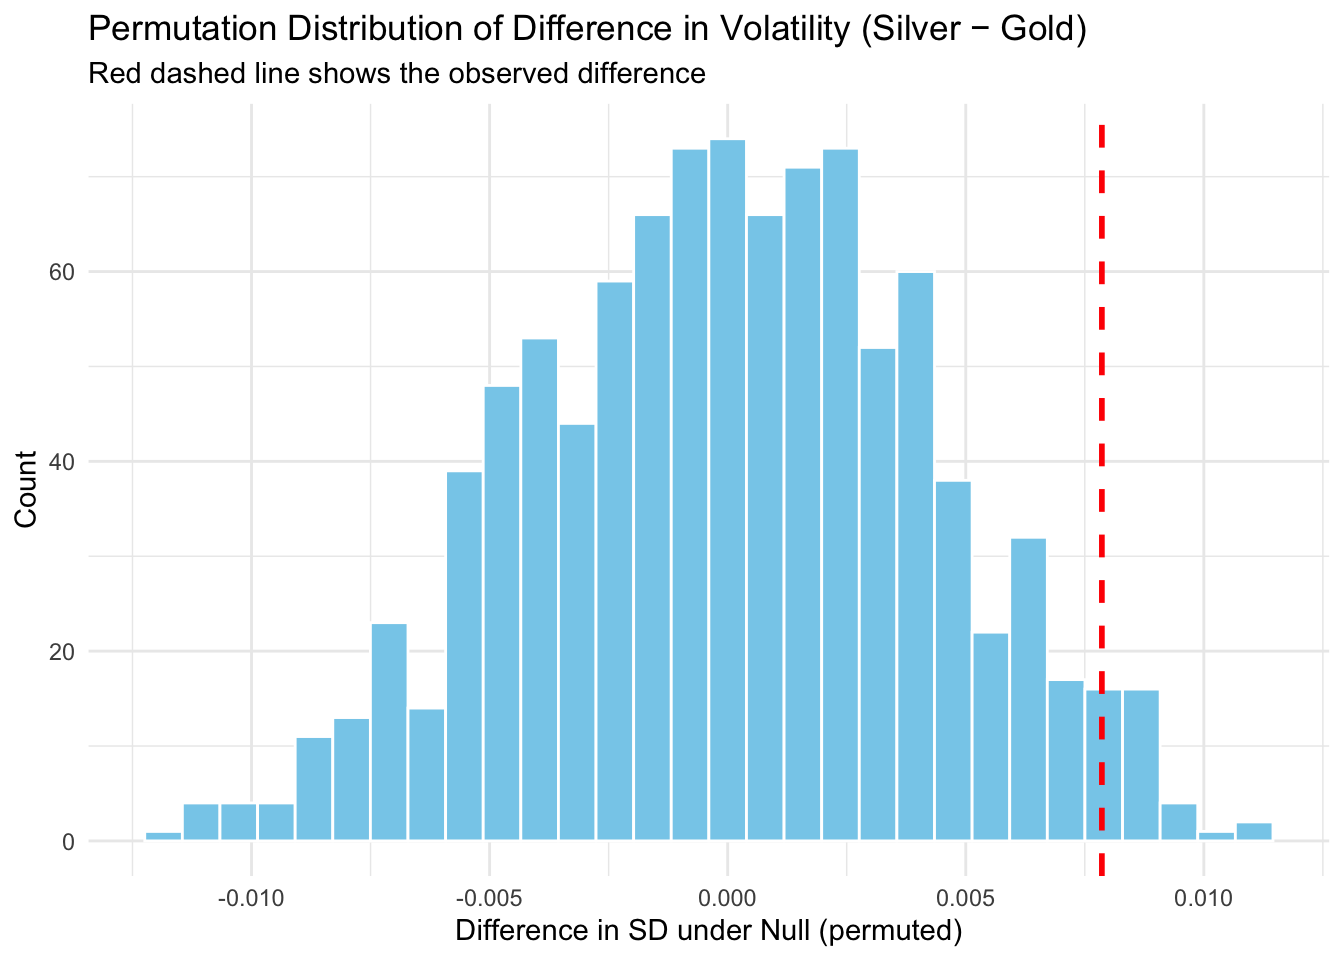
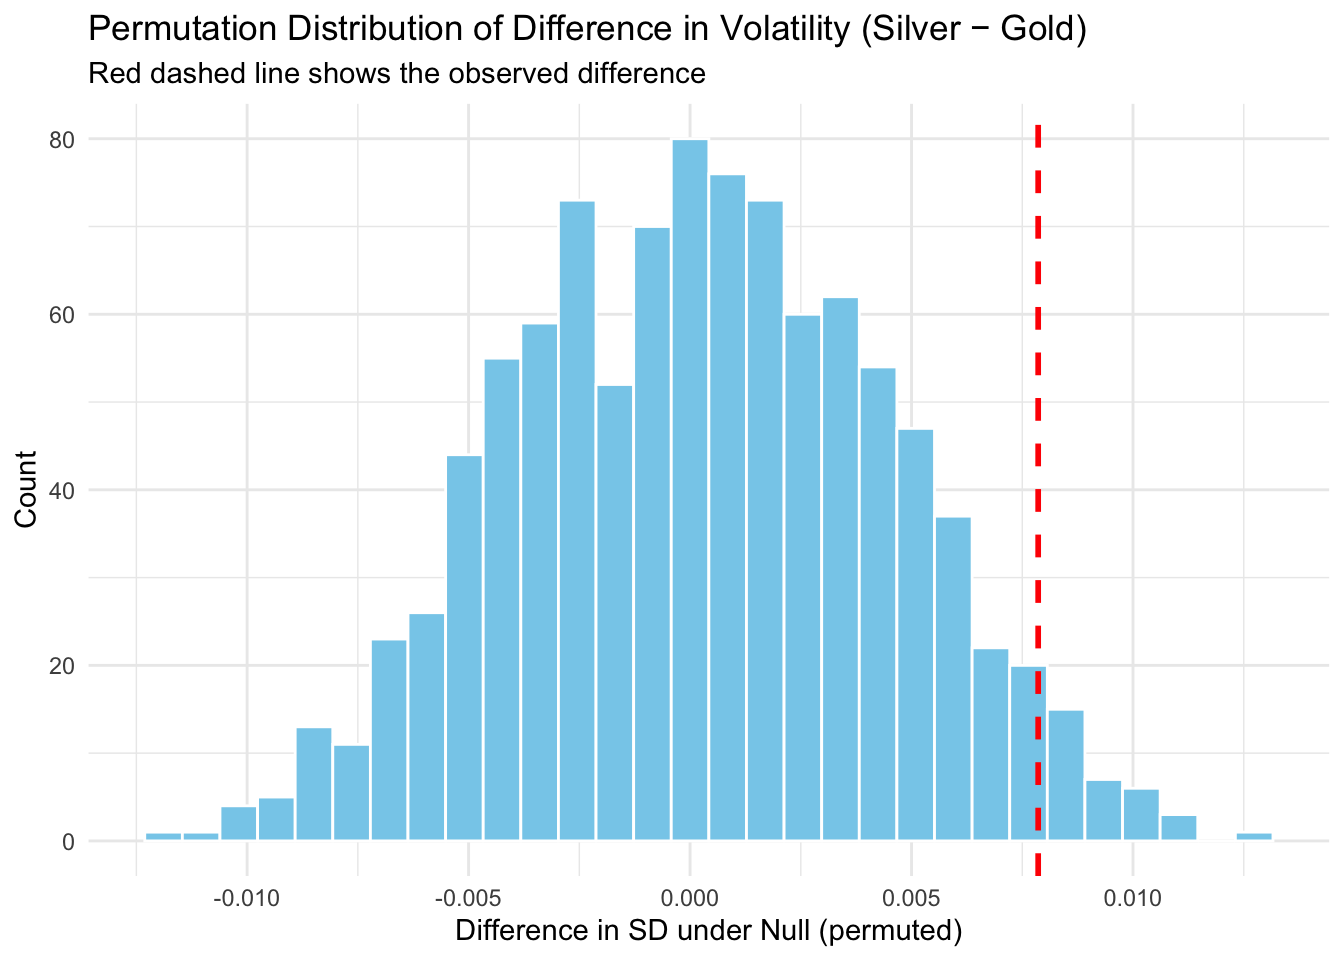
update

diff --git a/docs/PermutationTest.html b/docs/PermutationTest.html
@@ -188,6 +188,7 @@ pre > code.sourceCode > span > a:first-child::before { text-decoration: underlin
   <li><a href="#simulate-null-distribution" id="toc-simulate-null-distribution" class="nav-link" data-scroll-target="#simulate-null-distribution">Simulate Null Distribution</a></li>
   <li><a href="#visualize-permutation-distribution" id="toc-visualize-permutation-distribution" class="nav-link" data-scroll-target="#visualize-permutation-distribution">Visualize Permutation Distribution</a></li>
   <li><a href="#calculate-one-tailed-p-value" id="toc-calculate-one-tailed-p-value" class="nav-link" data-scroll-target="#calculate-one-tailed-p-value">Calculate One-Tailed p-value</a></li>
+  <li><a href="#simulation-type-i-error-rate-of-the-permutation-test" id="toc-simulation-type-i-error-rate-of-the-permutation-test" class="nav-link" data-scroll-target="#simulation-type-i-error-rate-of-the-permutation-test">Simulation: Type I Error Rate of the Permutation Test</a></li>
   <li><a href="#final-conclusion" id="toc-final-conclusion" class="nav-link" data-scroll-target="#final-conclusion">Final Conclusion</a></li>
   </ul>
 </nav>
@@ -225,7 +226,7 @@ pre > code.sourceCode > span > a:first-child::before { text-decoration: underlin
 <p>In this project, I investigate whether <strong>silver is more volatile than gold</strong> over recent months.<br>
 Gold and silver are both precious metals often used as investment hedges against inflation and market risk, but their price behaviors differ: gold functions more as a monetary store of value, while silver also has heavy industrial demand.</p>
 <p>Determining which metal trades at a <strong>“volatility premium”</strong> — that is, which has a higher expected volatility — is important to assess the <strong>stable liquidity</strong> of gold vs.&nbsp;silver. This is especially useful when evaluating which metal serves as a more effective <strong>portfolio hedge</strong> under uncertainty.</p>
-<p>Using daily price data from <strong>Yahoo Finance</strong> (tickers <code>GC=F</code> for gold and <code>SI=F</code> for silver), I compute daily log returns and perform a <strong>one-tailed permutation test</strong> under the null hypothesis that the two metals have equal volatility.</p>
+<p>Using daily price data from <strong>Yahoo Finance</strong> (tickers <code>GC=F</code> for gold and <code>SI=F</code> for silver), I compute daily log returns and perform a one-tailed permutation test under the null hypothesis that the two metals have equal volatility.</p>
 <p>Because financial returns are often non-normal, a permutation test is a robust, simulation-based way to test this difference without assuming normality.</p>
 <hr>
 </section>
@@ -233,10 +234,8 @@ Gold and silver are both precious metals often used as investment hedges against
 <h2 class="anchored" data-anchor-id="experiment-setup">Experiment Setup</h2>
 <p>We compare the <strong>standard deviations of daily log returns</strong> for gold and silver.</p>
 <ul>
-<li><p><strong>Null Hypothesis (H₀):</strong> The standard deviation of daily returns is the same for gold and silver.<br>
-[ <em>{} = </em>{} ]</p></li>
-<li><p><strong>Alternative Hypothesis (H₁):</strong> Silver is <strong>more volatile</strong> than gold.<br>
-[ <em>{} &gt; </em>{} ]</p></li>
+<li><p><strong>Null Hypothesis (H₀):</strong> The standard deviation of daily returns is the same for gold and silver.</p></li>
+<li><p><strong>Alternative Hypothesis (H₁):</strong> Silver is <strong>more volatile</strong> than gold.</p></li>
 </ul>
 <p>Instead of relying on a theoretical distribution (like a t-test or F-test), we use a <strong>permutation test</strong>, which simulates what differences we’d expect <strong>purely due to chance</strong> under the null hypothesis.</p>
 <hr>
@@ -358,11 +357,11 @@ We’ll compare this observed difference to the null distribution next.</p>
 </section>
 <section id="simulate-null-distribution" class="level2">
 <h2 class="anchored" data-anchor-id="simulate-null-distribution">Simulate Null Distribution</h2>
-<p>We repeat the permutation process <strong>1000 times</strong> using <code>map_dbl()</code> to create a distribution of SD differences expected under the null hypothesis (i.e., if metals were equally volatile).</p>
+<p>We repeat the permutation process <strong>1000 times</strong> using <code>map_dbl()</code> to create a distribution of SD differences expected under the null hypothesis (i.e., if metals were equally volatile). The map_() function allows us to repeat this process smoothly and efficiently.</p>
 <div class="cell">
 <details class="code-fold">
 <summary>Code</summary>
-<div class="sourceCode cell-code" id="cb10"><pre class="sourceCode r code-with-copy"><code class="sourceCode r"><span id="cb10-1"><a href="#cb10-1" aria-hidden="true" tabindex="-1"></a><span class="fu">set.seed</span>(<span class="dv">123</span>)  <span class="co"># for reproducibility</span></span>
+<div class="sourceCode cell-code" id="cb10"><pre class="sourceCode r code-with-copy"><code class="sourceCode r"><span id="cb10-1"><a href="#cb10-1" aria-hidden="true" tabindex="-1"></a><span class="fu">set.seed</span>(<span class="dv">47</span>)</span>
 <span id="cb10-2"><a href="#cb10-2" aria-hidden="true" tabindex="-1"></a></span>
 <span id="cb10-3"><a href="#cb10-3" aria-hidden="true" tabindex="-1"></a><span class="co"># Perform 1000 permutations under the null hypothesis</span></span>
 <span id="cb10-4"><a href="#cb10-4" aria-hidden="true" tabindex="-1"></a>sim_diffs <span class="ot">&lt;-</span> <span class="fu">map_dbl</span>(<span class="dv">1</span><span class="sc">:</span><span class="dv">1000</span>, <span class="sc">~</span><span class="fu">simulate_diff_sd</span>(returns_long))</span>
@@ -429,13 +428,64 @@ This gives a <strong>right-tailed p-value</strong> for the hypothesis that silve
 <span id="cb15-2"><a href="#cb15-2" aria-hidden="true" tabindex="-1"></a>    <span class="fu">format</span>(p_val, <span class="at">scientific =</span> <span class="cn">TRUE</span>, <span class="at">digits =</span> <span class="dv">10</span>), <span class="st">"</span><span class="sc">\n</span><span class="st">"</span>)</span></code><button title="Copy to Clipboard" class="code-copy-button"><i class="bi"></i></button></pre></div>
 </details>
 <div class="cell-output cell-output-stdout">
-<pre><code>Approximate one-tailed permutation p-value: 3.4e-02 </code></pre>
+<pre><code>Approximate one-tailed permutation p-value: 3.5e-02 </code></pre>
 </div>
 </div>
 <p><strong>Interpretation:</strong><br>
 A very small p-value implies that the observed volatility difference is unlikely under the null —<br>
 we have statistical evidence to <strong>reject the null hypothesis</strong> and conclude that <strong>silver is more volatile</strong>.</p>
-<hr>
+</section>
+<section id="simulation-type-i-error-rate-of-the-permutation-test" class="level2">
+<h2 class="anchored" data-anchor-id="simulation-type-i-error-rate-of-the-permutation-test">Simulation: Type I Error Rate of the Permutation Test</h2>
+<p>We now simulate a world where <strong>gold and silver have the same true volatility</strong>, and check how often our permutation test <strong>falsely rejects the null</strong>.</p>
+<p>This helps us assess how well the test controls the Type I error rate.</p>
+<div class="cell">
+<details class="code-fold">
+<summary>Code</summary>
+<div class="sourceCode cell-code" id="cb17"><pre class="sourceCode r code-with-copy"><code class="sourceCode r"><span id="cb17-1"><a href="#cb17-1" aria-hidden="true" tabindex="-1"></a>simulate_type1_error <span class="ot">&lt;-</span> <span class="cf">function</span>(<span class="at">n =</span> <span class="dv">30</span>, <span class="at">reps =</span> <span class="dv">20</span>, <span class="at">perms =</span> <span class="dv">100</span>, <span class="at">seed =</span> <span class="dv">47</span>) {</span>
+<span id="cb17-2"><a href="#cb17-2" aria-hidden="true" tabindex="-1"></a>  <span class="fu">set.seed</span>(seed)  <span class="co"># ensures reproducibility</span></span>
+<span id="cb17-3"><a href="#cb17-3" aria-hidden="true" tabindex="-1"></a></span>
+<span id="cb17-4"><a href="#cb17-4" aria-hidden="true" tabindex="-1"></a>  p_vals <span class="ot">&lt;-</span> <span class="fu">numeric</span>(reps)</span>
+<span id="cb17-5"><a href="#cb17-5" aria-hidden="true" tabindex="-1"></a></span>
+<span id="cb17-6"><a href="#cb17-6" aria-hidden="true" tabindex="-1"></a>  <span class="cf">for</span> (i <span class="cf">in</span> <span class="dv">1</span><span class="sc">:</span>reps) {</span>
+<span id="cb17-7"><a href="#cb17-7" aria-hidden="true" tabindex="-1"></a>    group1 <span class="ot">&lt;-</span> <span class="fu">rnorm</span>(n)</span>
+<span id="cb17-8"><a href="#cb17-8" aria-hidden="true" tabindex="-1"></a>    group2 <span class="ot">&lt;-</span> <span class="fu">rnorm</span>(n)</span>
+<span id="cb17-9"><a href="#cb17-9" aria-hidden="true" tabindex="-1"></a></span>
+<span id="cb17-10"><a href="#cb17-10" aria-hidden="true" tabindex="-1"></a>    df <span class="ot">&lt;-</span> <span class="fu">tibble</span>(</span>
+<span id="cb17-11"><a href="#cb17-11" aria-hidden="true" tabindex="-1"></a>      <span class="at">Return =</span> <span class="fu">c</span>(group1, group2),</span>
+<span id="cb17-12"><a href="#cb17-12" aria-hidden="true" tabindex="-1"></a>      <span class="at">Metal =</span> <span class="fu">rep</span>(<span class="fu">c</span>(<span class="st">"Gold"</span>, <span class="st">"Silver"</span>), <span class="at">each =</span> n)</span>
+<span id="cb17-13"><a href="#cb17-13" aria-hidden="true" tabindex="-1"></a>    )</span>
+<span id="cb17-14"><a href="#cb17-14" aria-hidden="true" tabindex="-1"></a></span>
+<span id="cb17-15"><a href="#cb17-15" aria-hidden="true" tabindex="-1"></a>    obs_diff <span class="ot">&lt;-</span> df <span class="sc">|&gt;</span></span>
+<span id="cb17-16"><a href="#cb17-16" aria-hidden="true" tabindex="-1"></a>      <span class="fu">group_by</span>(Metal) <span class="sc">|&gt;</span></span>
+<span id="cb17-17"><a href="#cb17-17" aria-hidden="true" tabindex="-1"></a>      <span class="fu">summarise</span>(<span class="at">sd =</span> <span class="fu">sd</span>(Return), <span class="at">.groups =</span> <span class="st">"drop"</span>) <span class="sc">|&gt;</span></span>
+<span id="cb17-18"><a href="#cb17-18" aria-hidden="true" tabindex="-1"></a>      <span class="fu">summarise</span>(<span class="at">diff_sd =</span> <span class="fu">diff</span>(sd)) <span class="sc">|&gt;</span></span>
+<span id="cb17-19"><a href="#cb17-19" aria-hidden="true" tabindex="-1"></a>      <span class="fu">pull</span>(diff_sd)</span>
+<span id="cb17-20"><a href="#cb17-20" aria-hidden="true" tabindex="-1"></a></span>
+<span id="cb17-21"><a href="#cb17-21" aria-hidden="true" tabindex="-1"></a>    sim_diffs <span class="ot">&lt;-</span> <span class="fu">replicate</span>(perms, {</span>
+<span id="cb17-22"><a href="#cb17-22" aria-hidden="true" tabindex="-1"></a>      df <span class="sc">|&gt;</span></span>
+<span id="cb17-23"><a href="#cb17-23" aria-hidden="true" tabindex="-1"></a>        <span class="fu">mutate</span>(<span class="at">Metal =</span> <span class="fu">sample</span>(Metal)) <span class="sc">|&gt;</span></span>
+<span id="cb17-24"><a href="#cb17-24" aria-hidden="true" tabindex="-1"></a>        <span class="fu">group_by</span>(Metal) <span class="sc">|&gt;</span></span>
+<span id="cb17-25"><a href="#cb17-25" aria-hidden="true" tabindex="-1"></a>        <span class="fu">summarise</span>(<span class="at">sd =</span> <span class="fu">sd</span>(Return), <span class="at">.groups =</span> <span class="st">"drop"</span>) <span class="sc">|&gt;</span></span>
+<span id="cb17-26"><a href="#cb17-26" aria-hidden="true" tabindex="-1"></a>        <span class="fu">summarise</span>(<span class="at">diff_sd =</span> <span class="fu">diff</span>(sd)) <span class="sc">|&gt;</span></span>
+<span id="cb17-27"><a href="#cb17-27" aria-hidden="true" tabindex="-1"></a>        <span class="fu">pull</span>(diff_sd)</span>
+<span id="cb17-28"><a href="#cb17-28" aria-hidden="true" tabindex="-1"></a>    })</span>
+<span id="cb17-29"><a href="#cb17-29" aria-hidden="true" tabindex="-1"></a></span>
+<span id="cb17-30"><a href="#cb17-30" aria-hidden="true" tabindex="-1"></a>    p_vals[i] <span class="ot">&lt;-</span> <span class="fu">mean</span>(sim_diffs <span class="sc">&gt;=</span> obs_diff)</span>
+<span id="cb17-31"><a href="#cb17-31" aria-hidden="true" tabindex="-1"></a>  }</span>
+<span id="cb17-32"><a href="#cb17-32" aria-hidden="true" tabindex="-1"></a></span>
+<span id="cb17-33"><a href="#cb17-33" aria-hidden="true" tabindex="-1"></a>  <span class="fu">mean</span>(p_vals <span class="sc">&lt;</span> <span class="fl">0.05</span>)</span>
+<span id="cb17-34"><a href="#cb17-34" aria-hidden="true" tabindex="-1"></a>}</span>
+<span id="cb17-35"><a href="#cb17-35" aria-hidden="true" tabindex="-1"></a></span>
+<span id="cb17-36"><a href="#cb17-36" aria-hidden="true" tabindex="-1"></a><span class="fu">simulate_type1_error</span>(<span class="at">n =</span> <span class="dv">30</span>, <span class="at">reps =</span> <span class="dv">20</span>, <span class="at">perms =</span> <span class="dv">100</span>)</span></code><button title="Copy to Clipboard" class="code-copy-button"><i class="bi"></i></button></pre></div>
+</details>
+<div class="cell-output cell-output-stdout">
+<pre><code>[1] 0.05</code></pre>
+</div>
+</div>
+<p><strong>Interpretation:</strong><br>
+This number tells us how often the permutation test <strong>incorrectly rejects H₀</strong> when there is no true difference.</p>
+<p>While it differs depending on the seed, 47 gives us .05. The test is behaving well, giving us a Type I Error only .05 of the time If much higher or lower, it may be too liberal or conservative under certain conditions.</p>
 </section>
 <section id="final-conclusion" class="level2">
 <h2 class="anchored" data-anchor-id="final-conclusion">Final Conclusion</h2>
